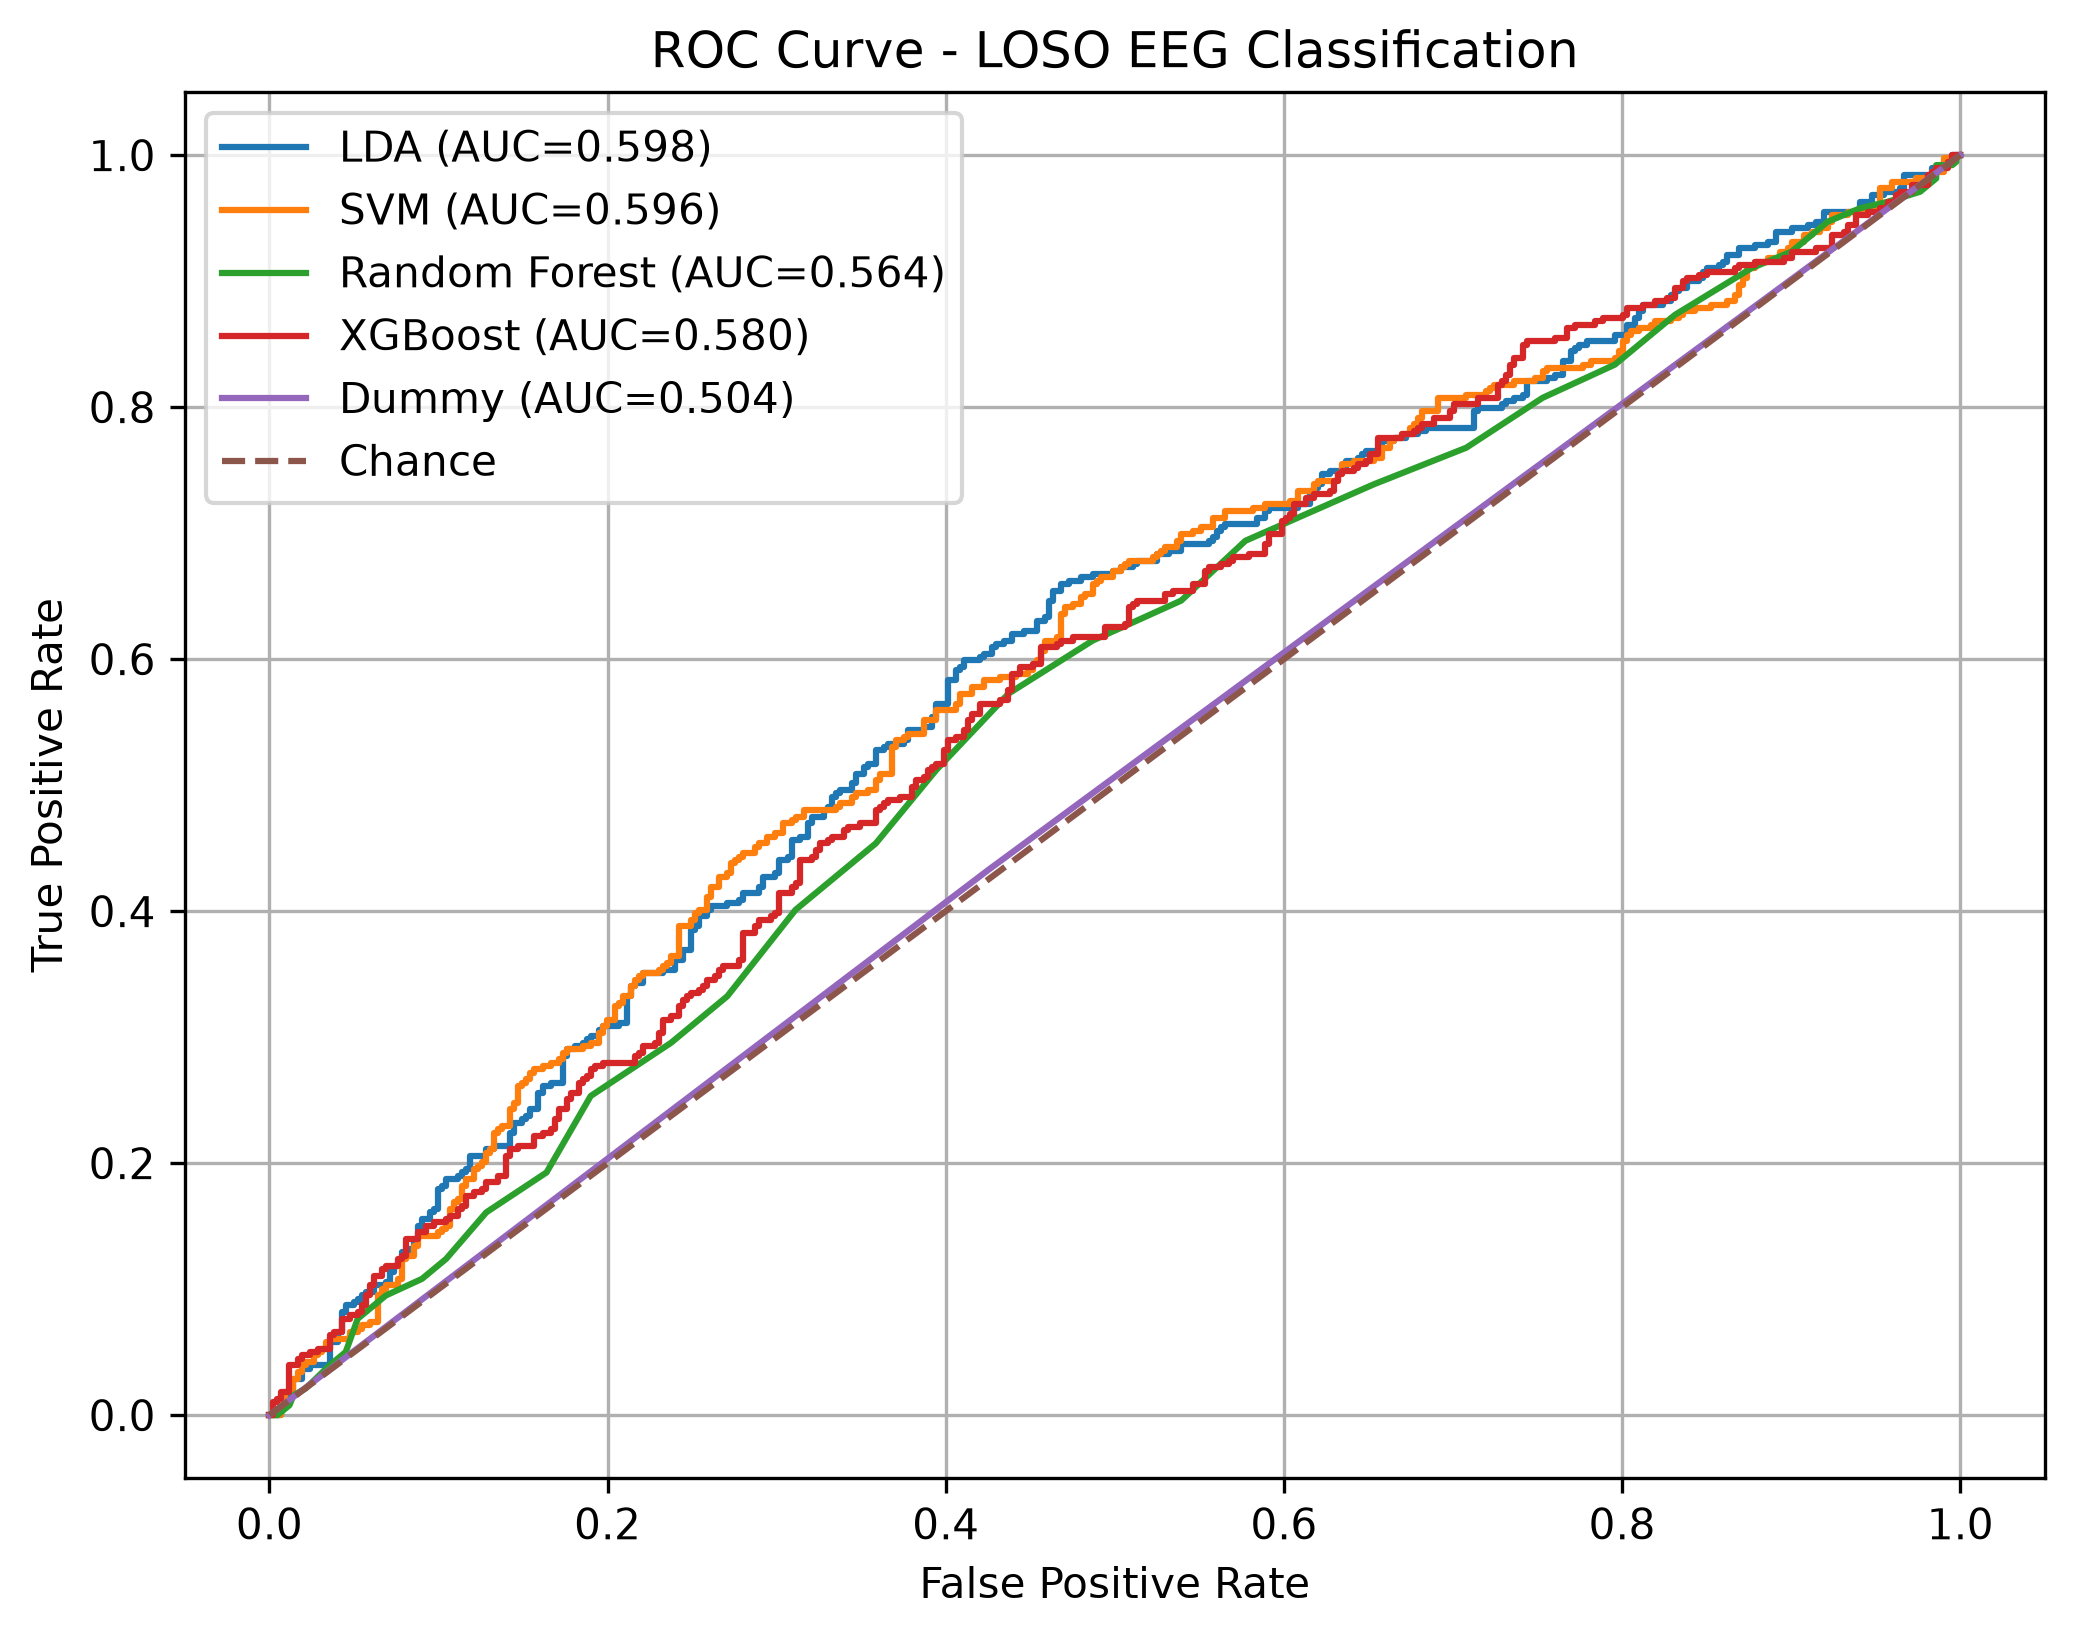
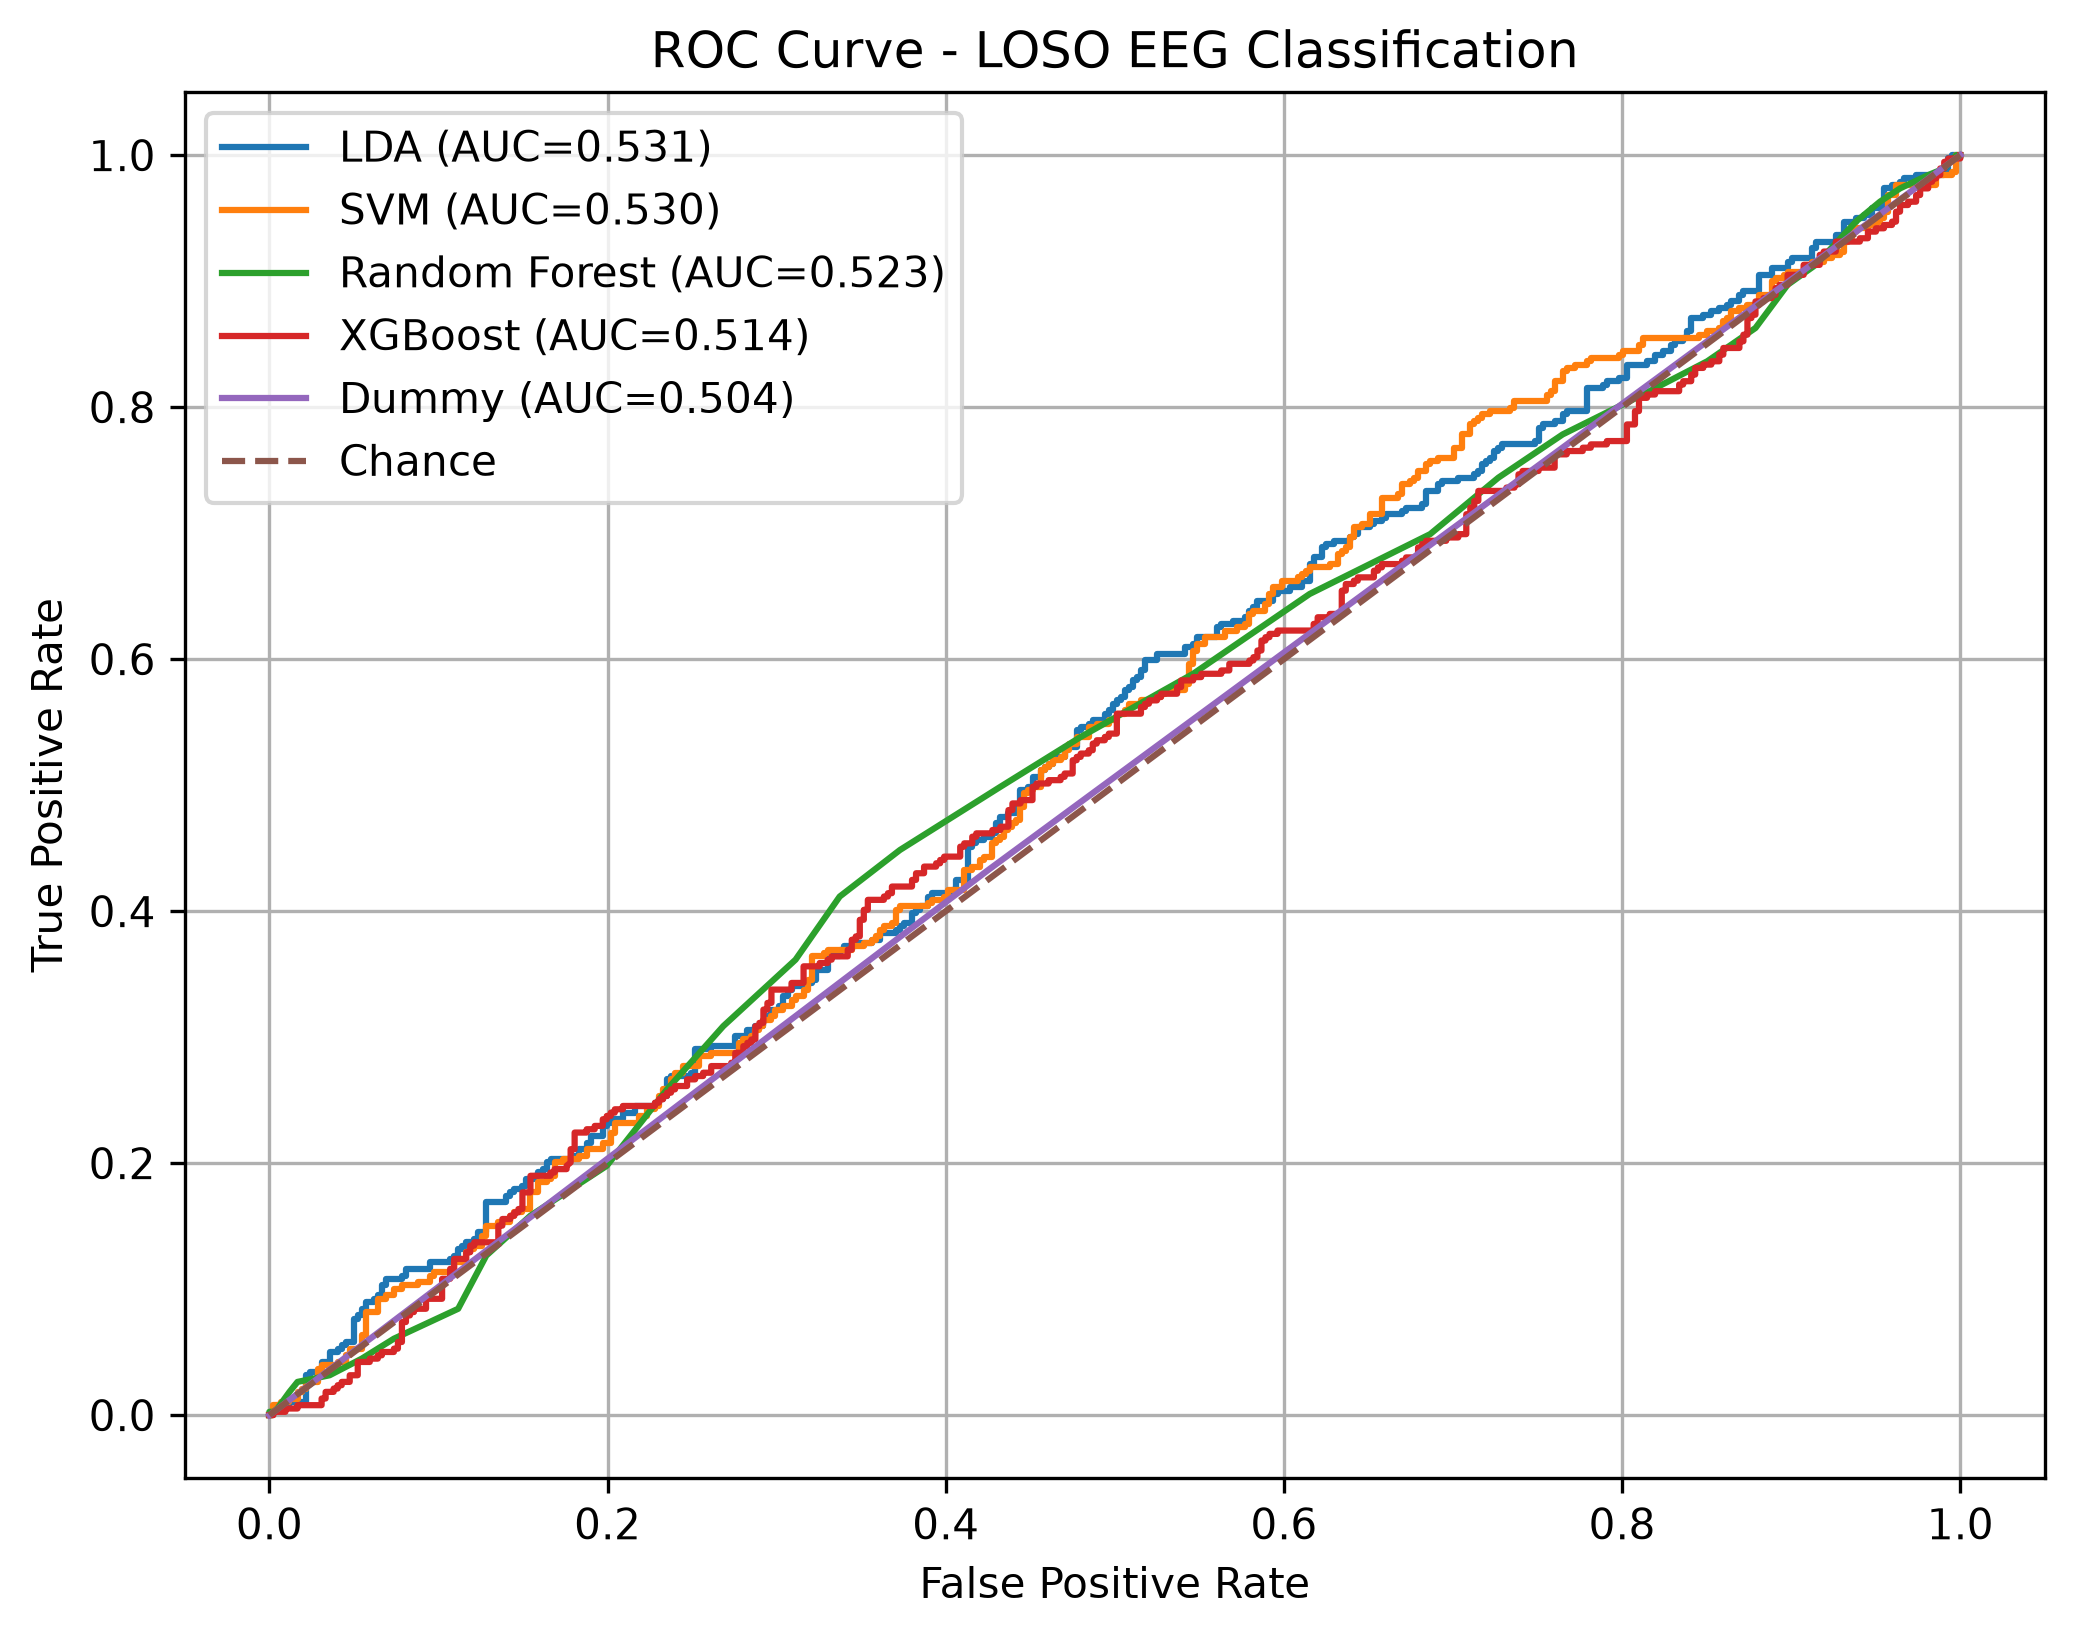
Trying main without PCA - Leakage fixed and it results in lower accuracy

diff --git a/main.py b/main.py
@@ -39,9 +39,9 @@ def preprocess(X_train, X_test):
     X_test = scaler.transform(X_test)
 
     #PCA done with 90% variance
-    pca = PCA(n_components=0.90)
-    X_train = pca.fit_transform(X_train)
-    X_test = pca.transform(X_test)
+    #pca = PCA(n_components=0.90)
+    #X_train = pca.fit_transform(X_train)
+    #X_test = pca.transform(X_test)
 
     return X_train, X_test
 
